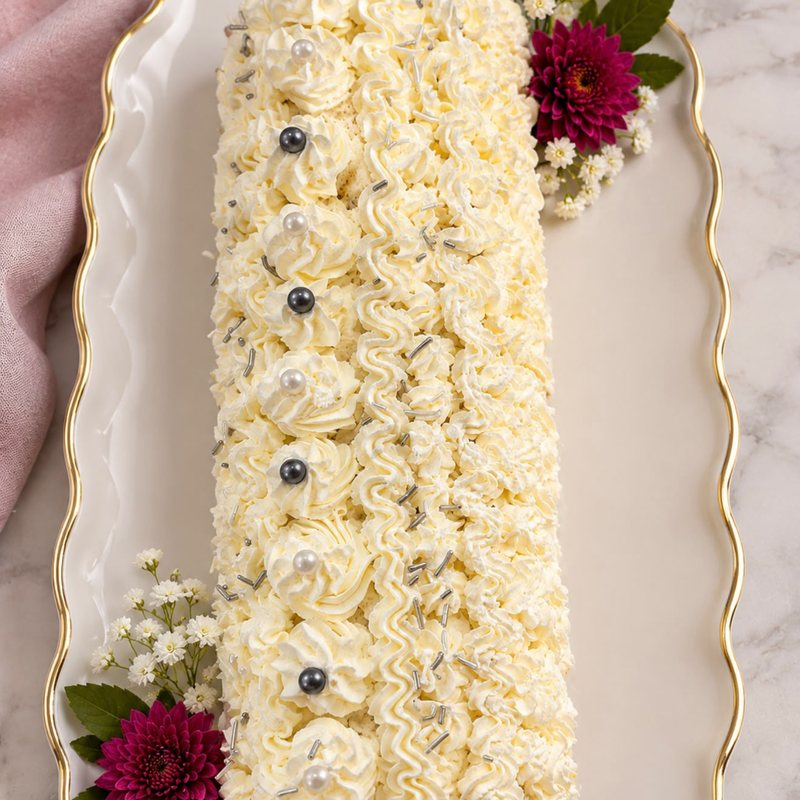
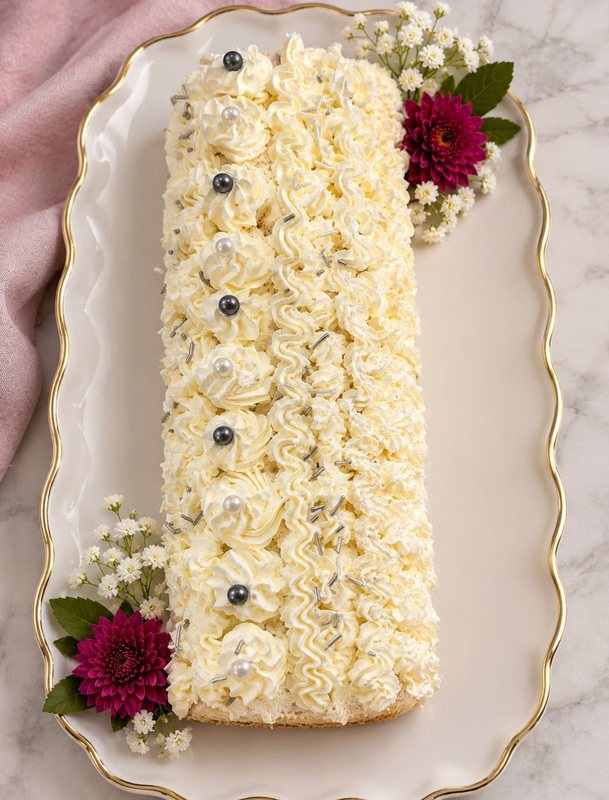
Menu: show photos uncropped in their natural shape, with even photo rows
Claude-Session: https://claude.ai/code/session_013eVhfZhZFVxUrEwQNXGAte

diff --git a/cakes.html b/cakes.html
@@ -8,7 +8,7 @@
   <link rel="preconnect" href="https://fonts.googleapis.com">
   <link rel="preconnect" href="https://fonts.gstatic.com" crossorigin>
   <link href="https://fonts.googleapis.com/css2?family=Cormorant+Garamond:ital,wght@0,500;1,500&family=Jost:wght@300;400;500&display=swap" rel="stylesheet">
-  <link rel="stylesheet" href="css/style.css?v=12">
+  <link rel="stylesheet" href="css/style.css?v=14">
   <link rel="icon" type="image/png" href="images/favicon.png">
   <link rel="apple-touch-icon" href="images/apple-touch-icon.png">
   <link rel="canonical" href="https://www.sugarloopco.com/cakes.html">
@@ -53,7 +53,7 @@
 
     <section class="section section--flush" id="cakes">
       <div class="container menu-section">
-        <div class="photo"><img src="images/menu-cakes.jpg" data-full="images/full/menu-cakes.jpg" alt="Penguin-themed first birthday cake" loading="lazy"></div>
+        <div class="photo"><img src="images/menu-cakes.jpg" data-full="images/full/menu-cakes.jpg" width="900" height="1096" alt="Penguin-themed first birthday cake" loading="lazy"></div>
         <div class="menu-body">
           <h2>Custom Cakes</h2>
           <h3>One tier</h3>
@@ -81,21 +81,25 @@
       </div>
       <div class="container">
         <div class="cake-gallery">
-          <div class="photo"><img src="images/cake-2.jpg" data-full="images/full/cake-2.jpg" alt="Safari first birthday cake" loading="lazy"></div>
-          <div class="photo"><img src="images/cake-1.jpg" data-full="images/full/cake-1.jpg" alt="Character birthday cake" loading="lazy"></div>
-          <div class="photo"><img src="images/cake-shark.jpg" data-full="images/full/cake-shark.jpg" alt="Ocean-themed birthday cake" loading="lazy"></div>
-          <div class="photo"><img src="images/cake-5.jpg" data-full="images/full/cake-5.jpg" alt="Easter chick cake" loading="lazy"></div>
-          <div class="photo"><img src="images/cake-4.jpg" data-full="images/full/cake-4.jpg" alt="Cake finished with hand-piped cream rosettes" loading="lazy"></div>
-          <div class="photo"><img src="images/cake-rosette-sheet.jpg" data-full="images/full/cake-rosette-sheet.jpg" alt="Peach rosette sheet cake" loading="lazy"></div>
-          <div class="photo"><img src="images/cake-3.jpg" data-full="images/full/cake-3.jpg" alt="Robot birthday sheet cake" loading="lazy"></div>
-          <div class="photo"><img src="images/cake-soccer.jpg" data-full="images/full/cake-soccer.jpg" alt="Soccer field sheet cake" loading="lazy"></div>
+          <div class="gallery-row">
+            <div class="photo" style="--ar: 1.671"><img src="images/cake-2.jpg" data-full="images/full/cake-2.jpg" width="640" height="383" alt="Safari first birthday cake" loading="lazy"></div>
+            <div class="photo" style="--ar: 1.0"><img src="images/cake-1.jpg" data-full="images/full/cake-1.jpg" width="640" height="640" alt="Character birthday cake" loading="lazy"></div>
+            <div class="photo" style="--ar: 1.379"><img src="images/cake-shark.jpg" data-full="images/full/cake-shark.jpg" width="640" height="464" alt="Ocean-themed birthday cake" loading="lazy"></div>
+            <div class="photo" style="--ar: 1.016"><img src="images/cake-5.jpg" data-full="images/full/cake-5.jpg" width="640" height="630" alt="Easter chick cake" loading="lazy"></div>
+          </div>
+          <div class="gallery-row">
+            <div class="photo" style="--ar: 0.75"><img src="images/cake-4.jpg" data-full="images/full/cake-4.jpg" width="480" height="640" alt="Cake finished with hand-piped cream rosettes" loading="lazy"></div>
+            <div class="photo" style="--ar: 1.365"><img src="images/cake-rosette-sheet.jpg" data-full="images/full/cake-rosette-sheet.jpg" width="640" height="469" alt="Peach rosette sheet cake" loading="lazy"></div>
+            <div class="photo" style="--ar: 1.91"><img src="images/cake-3.jpg" data-full="images/full/cake-3.jpg" width="640" height="335" alt="Robot birthday sheet cake" loading="lazy"></div>
+            <div class="photo" style="--ar: 1.839"><img src="images/cake-soccer.jpg" data-full="images/full/cake-soccer.jpg" width="640" height="348" alt="Soccer field sheet cake" loading="lazy"></div>
+          </div>
         </div>
       </div>
     </section>
 
     <section class="section section--soft" id="cupcakes">
       <div class="container menu-section menu-section--reverse">
-        <div class="photo"><img src="images/cake-6.jpg" data-full="images/full/cake-6.jpg" alt="Green and pink cupcakes on a tray" loading="lazy"></div>
+        <div class="photo"><img src="images/cake-6.jpg" data-full="images/full/cake-6.jpg" width="644" height="717" alt="Green and pink cupcakes on a tray" loading="lazy"></div>
         <div class="menu-body">
           <h2>Cupcakes</h2>
           <ul class="price-list">
@@ -109,7 +113,7 @@
 
     <section class="section" id="baklava">
       <div class="container menu-section">
-        <div class="photo"><img src="images/menu-baklava-photo.jpg" data-full="images/full/menu-baklava-photo.jpg" alt="Chocolate pistachio baklava on a serving plate" loading="lazy"></div>
+        <div class="photo"><img src="images/menu-baklava-photo.jpg" data-full="images/full/menu-baklava-photo.jpg" width="900" height="981" alt="Chocolate pistachio baklava on a serving plate" loading="lazy"></div>
         <div class="menu-body">
           <h2>Baklava</h2>
           <h3>Box of 7 pieces</h3>
@@ -130,7 +134,7 @@
 
     <section class="section section--soft" id="swiss-rolls">
       <div class="container menu-section menu-section--reverse">
-        <div class="photo"><img src="images/menu-swiss-roll.jpg" data-full="images/full/menu-swiss-roll.jpg" alt="Two vanilla Swiss rolls with piped cream" loading="lazy"></div>
+        <div class="photo"><img src="images/menu-swiss-roll.jpg" data-full="images/full/menu-swiss-roll.jpg" width="900" height="978" alt="Two vanilla Swiss rolls with piped cream" loading="lazy"></div>
         <div class="menu-body">
           <h2>Swiss Roll <small>(Rollet)</small></h2>
           <ul class="price-list">
@@ -142,8 +146,8 @@
       </div>
       <div class="container">
         <div class="cake-gallery cake-gallery--pair">
-          <div class="photo"><img src="images/roll-vanilla.jpg" data-full="images/full/roll-vanilla.jpg" alt="Vanilla Swiss roll decorated with pearls and flowers" loading="lazy"></div>
-          <div class="photo"><img src="images/roll-coffee.jpg" data-full="images/full/roll-coffee.jpg" alt="Coffee Swiss roll dusted with cocoa" loading="lazy"></div>
+          <div class="photo"><img src="images/roll-vanilla.jpg" data-full="images/full/roll-vanilla.jpg" width="609" height="800" alt="Vanilla Swiss roll decorated with pearls and flowers" loading="lazy"></div>
+          <div class="photo"><img src="images/roll-coffee.jpg" data-full="images/full/roll-coffee.jpg" width="265" height="800" alt="Coffee Swiss roll dusted with cocoa" loading="lazy"></div>
         </div>
       </div>
     </section>

diff --git a/css/style.css b/css/style.css
@@ -328,7 +328,8 @@ img { max-width: 100%; display: block; }
   align-items: center;
 }
 
-.menu-section .photo { aspect-ratio: 4 / 3; border-radius: 4px; }
+.menu-section .photo { border-radius: 4px; }
+.menu-section .photo img { height: auto; }
 .menu-section--reverse .photo { order: 2; }
 
 .menu-body h2 { font-size: clamp(2.2rem, 4vw, 3rem); margin-bottom: 8px; }
@@ -376,15 +377,16 @@ img { max-width: 100%; display: block; }
 
 .menu-note { color: var(--ink-soft); font-size: 0.95rem; font-style: italic; margin: 18px 0 0; }
 
-.cake-gallery {
-  display: grid;
-  grid-template-columns: repeat(4, 1fr);
-  gap: 16px;
-  margin-top: 72px;
-}
+/* Each row is sized so photos keep their own shape (nothing cropped) and line up top and bottom */
+.cake-gallery { margin-top: 72px; }
+.gallery-row { display: flex; gap: 16px; margin-bottom: 16px; }
+.gallery-row .photo { flex: var(--ar) 1 0; min-width: 0; }
 
-.cake-gallery .photo { aspect-ratio: 1; border-radius: 4px; }
-.cake-gallery--pair { grid-template-columns: repeat(2, minmax(0, 280px)); justify-content: center; }
+.cake-gallery .photo { border-radius: 4px; }
+.cake-gallery .photo img { height: auto; }
+.cake-gallery--pair { display: flex; justify-content: center; gap: 16px; }
+.cake-gallery--pair .photo { margin: 0; height: 420px; }
+.cake-gallery--pair .photo img { height: 100%; width: auto; }
 
 /* Photo viewer */
 .photo.is-zoomable { cursor: zoom-in; }
@@ -539,7 +541,10 @@ body.lightbox-open { overflow: hidden; }
   .menu-section { grid-template-columns: 1fr; gap: 36px; }
   .menu-section--reverse .photo { order: 0; }
   .menu-section .photo { max-width: 520px; width: 100%; margin: 0 auto; }
-  .cake-gallery { grid-template-columns: repeat(2, 1fr); }
+  /* Phones: two photos per row, still uncropped */
+  .gallery-row { flex-wrap: wrap; gap: 12px; margin-bottom: 12px; }
+  .gallery-row .photo { flex: var(--ar) 1 calc(var(--ar) * 120px); }
+  .cake-gallery--pair .photo { height: 300px; }
   .split--center-mobile > div { text-align: center; }
   .split--center-mobile h2::before { margin-left: auto; }
   .split--center-mobile p { margin-left: auto; margin-right: auto; }

diff --git a/thanks.html b/thanks.html
@@ -9,7 +9,7 @@
   <link rel="preconnect" href="https://fonts.googleapis.com">
   <link rel="preconnect" href="https://fonts.gstatic.com" crossorigin>
   <link href="https://fonts.googleapis.com/css2?family=Cormorant+Garamond:ital,wght@0,500;1,500&family=Jost:wght@300;400;500&display=swap" rel="stylesheet">
-  <link rel="stylesheet" href="css/style.css?v=12">
+  <link rel="stylesheet" href="css/style.css?v=14">
   <link rel="icon" type="image/png" href="images/favicon.png">
   <link rel="apple-touch-icon" href="images/apple-touch-icon.png">
   <link rel="canonical" href="https://www.sugarloopco.com/thanks.html">

diff --git a/about.html b/about.html
@@ -8,7 +8,7 @@
   <link rel="preconnect" href="https://fonts.googleapis.com">
   <link rel="preconnect" href="https://fonts.gstatic.com" crossorigin>
   <link href="https://fonts.googleapis.com/css2?family=Cormorant+Garamond:ital,wght@0,500;1,500&family=Jost:wght@300;400;500&display=swap" rel="stylesheet">
-  <link rel="stylesheet" href="css/style.css?v=12">
+  <link rel="stylesheet" href="css/style.css?v=14">
   <link rel="icon" type="image/png" href="images/favicon.png">
   <link rel="apple-touch-icon" href="images/apple-touch-icon.png">
   <link rel="canonical" href="https://www.sugarloopco.com/about.html">

diff --git a/order.html b/order.html
@@ -8,7 +8,7 @@
   <link rel="preconnect" href="https://fonts.googleapis.com">
   <link rel="preconnect" href="https://fonts.gstatic.com" crossorigin>
   <link href="https://fonts.googleapis.com/css2?family=Cormorant+Garamond:ital,wght@0,500;1,500&family=Jost:wght@300;400;500&display=swap" rel="stylesheet">
-  <link rel="stylesheet" href="css/style.css?v=12">
+  <link rel="stylesheet" href="css/style.css?v=14">
   <link rel="icon" type="image/png" href="images/favicon.png">
   <link rel="apple-touch-icon" href="images/apple-touch-icon.png">
   <link rel="canonical" href="https://www.sugarloopco.com/order.html">

diff --git a/index.html b/index.html
@@ -8,7 +8,7 @@
   <link rel="preconnect" href="https://fonts.googleapis.com">
   <link rel="preconnect" href="https://fonts.gstatic.com" crossorigin>
   <link href="https://fonts.googleapis.com/css2?family=Cormorant+Garamond:ital,wght@0,500;1,500&family=Jost:wght@300;400;500&display=swap" rel="stylesheet">
-  <link rel="stylesheet" href="css/style.css?v=12">
+  <link rel="stylesheet" href="css/style.css?v=14">
   <link rel="icon" type="image/png" href="images/favicon.png">
   <link rel="apple-touch-icon" href="images/apple-touch-icon.png">
   <link rel="canonical" href="https://www.sugarloopco.com/">
